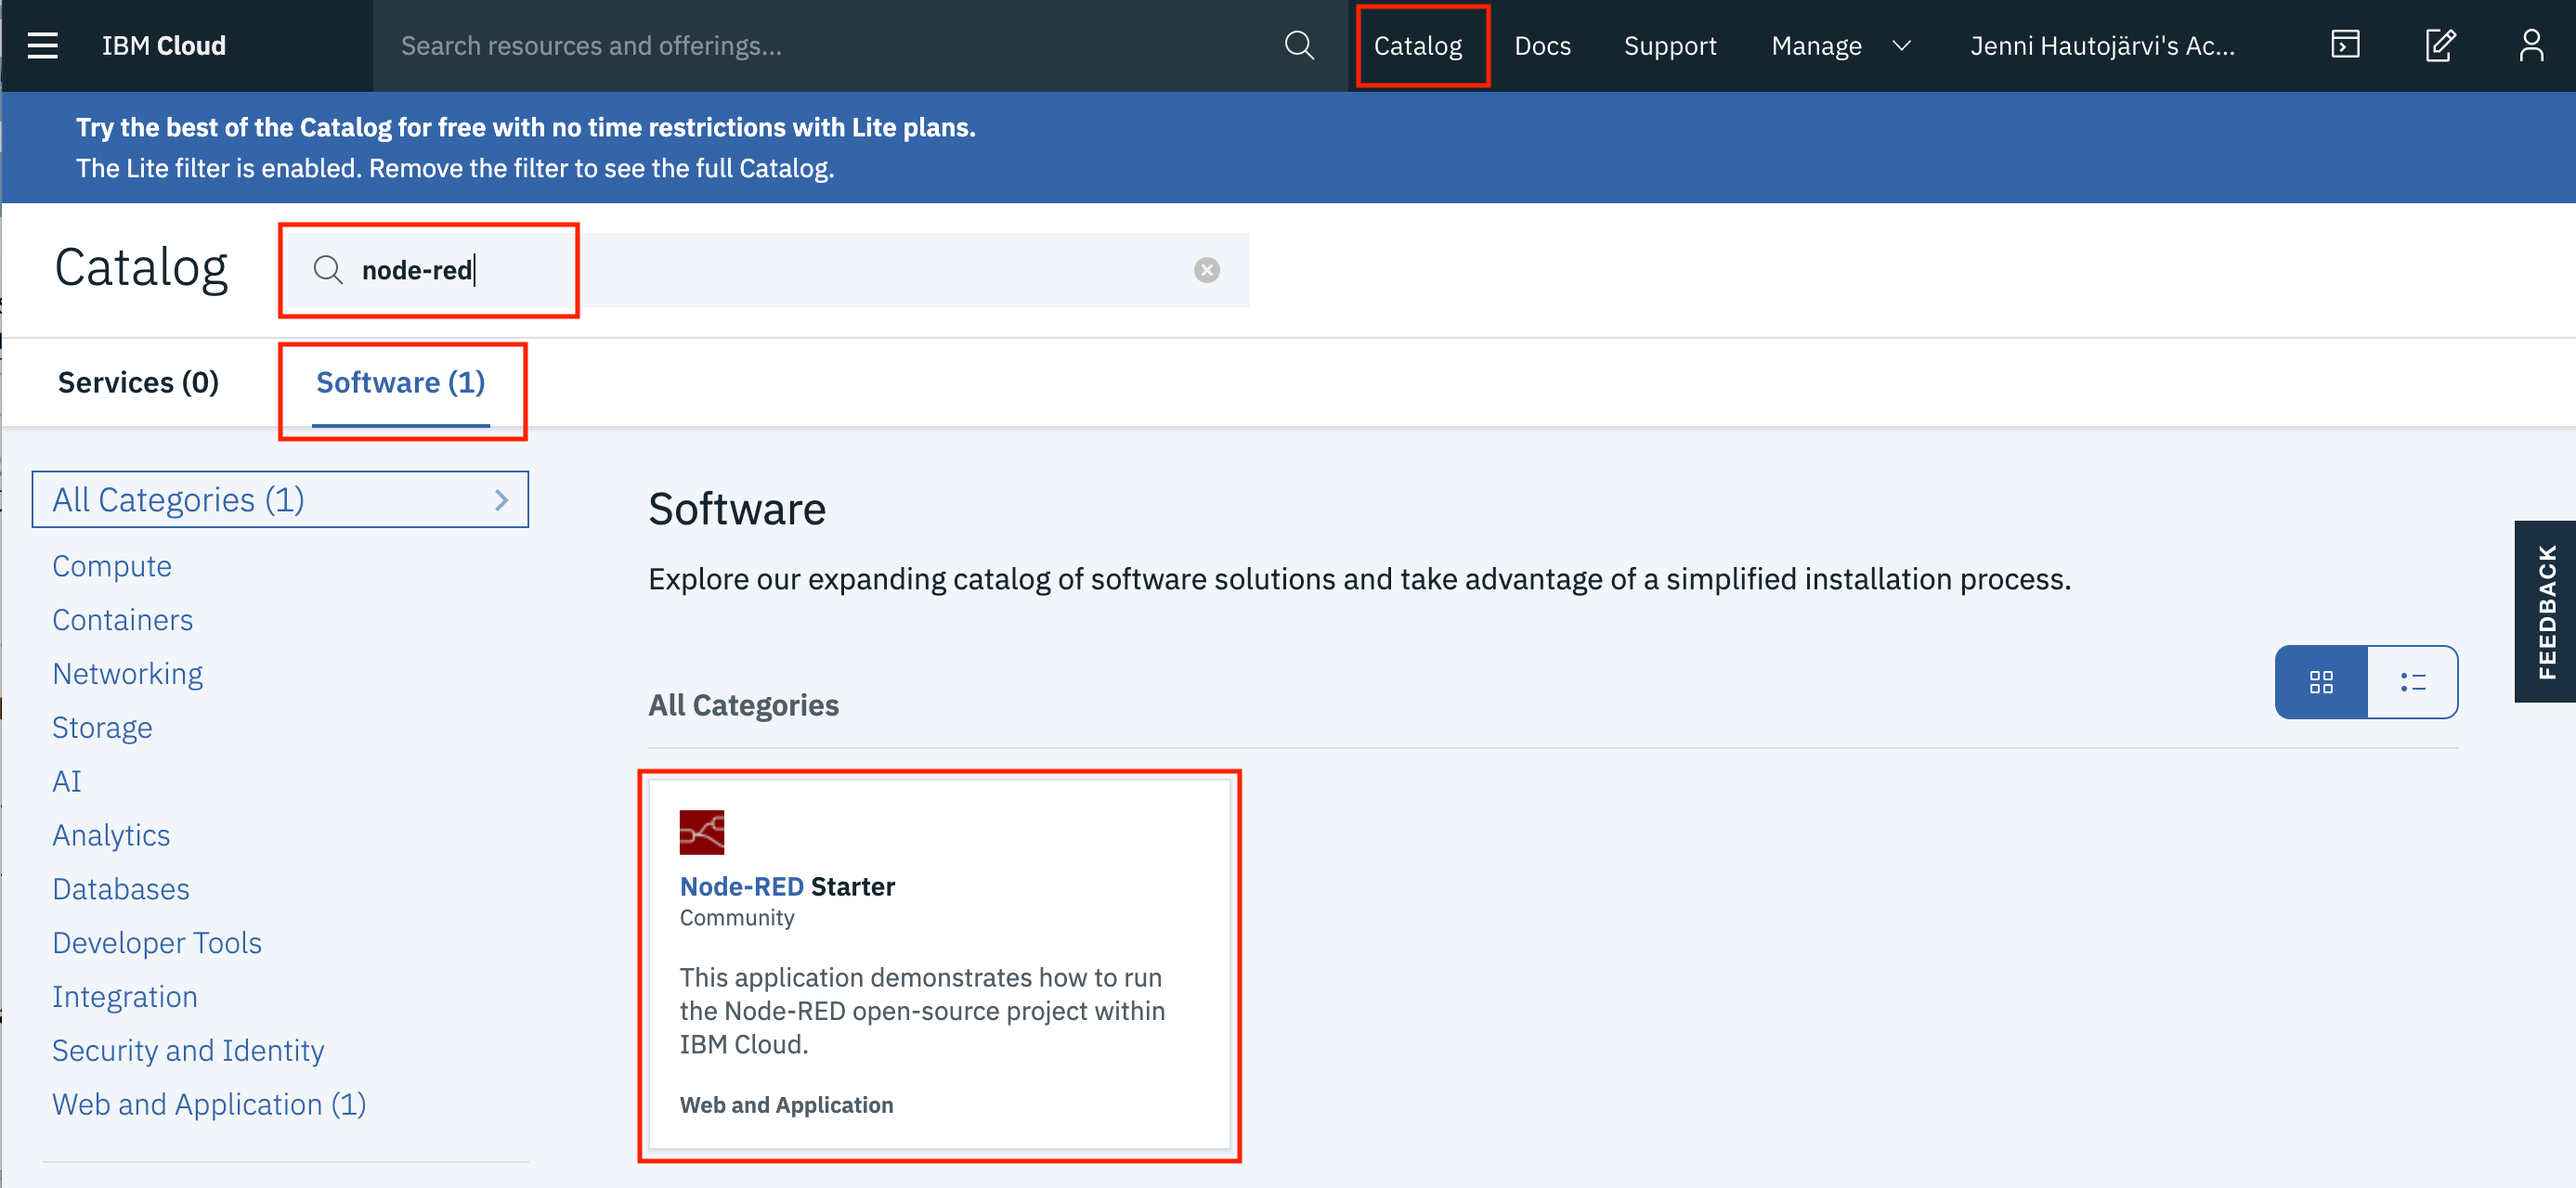
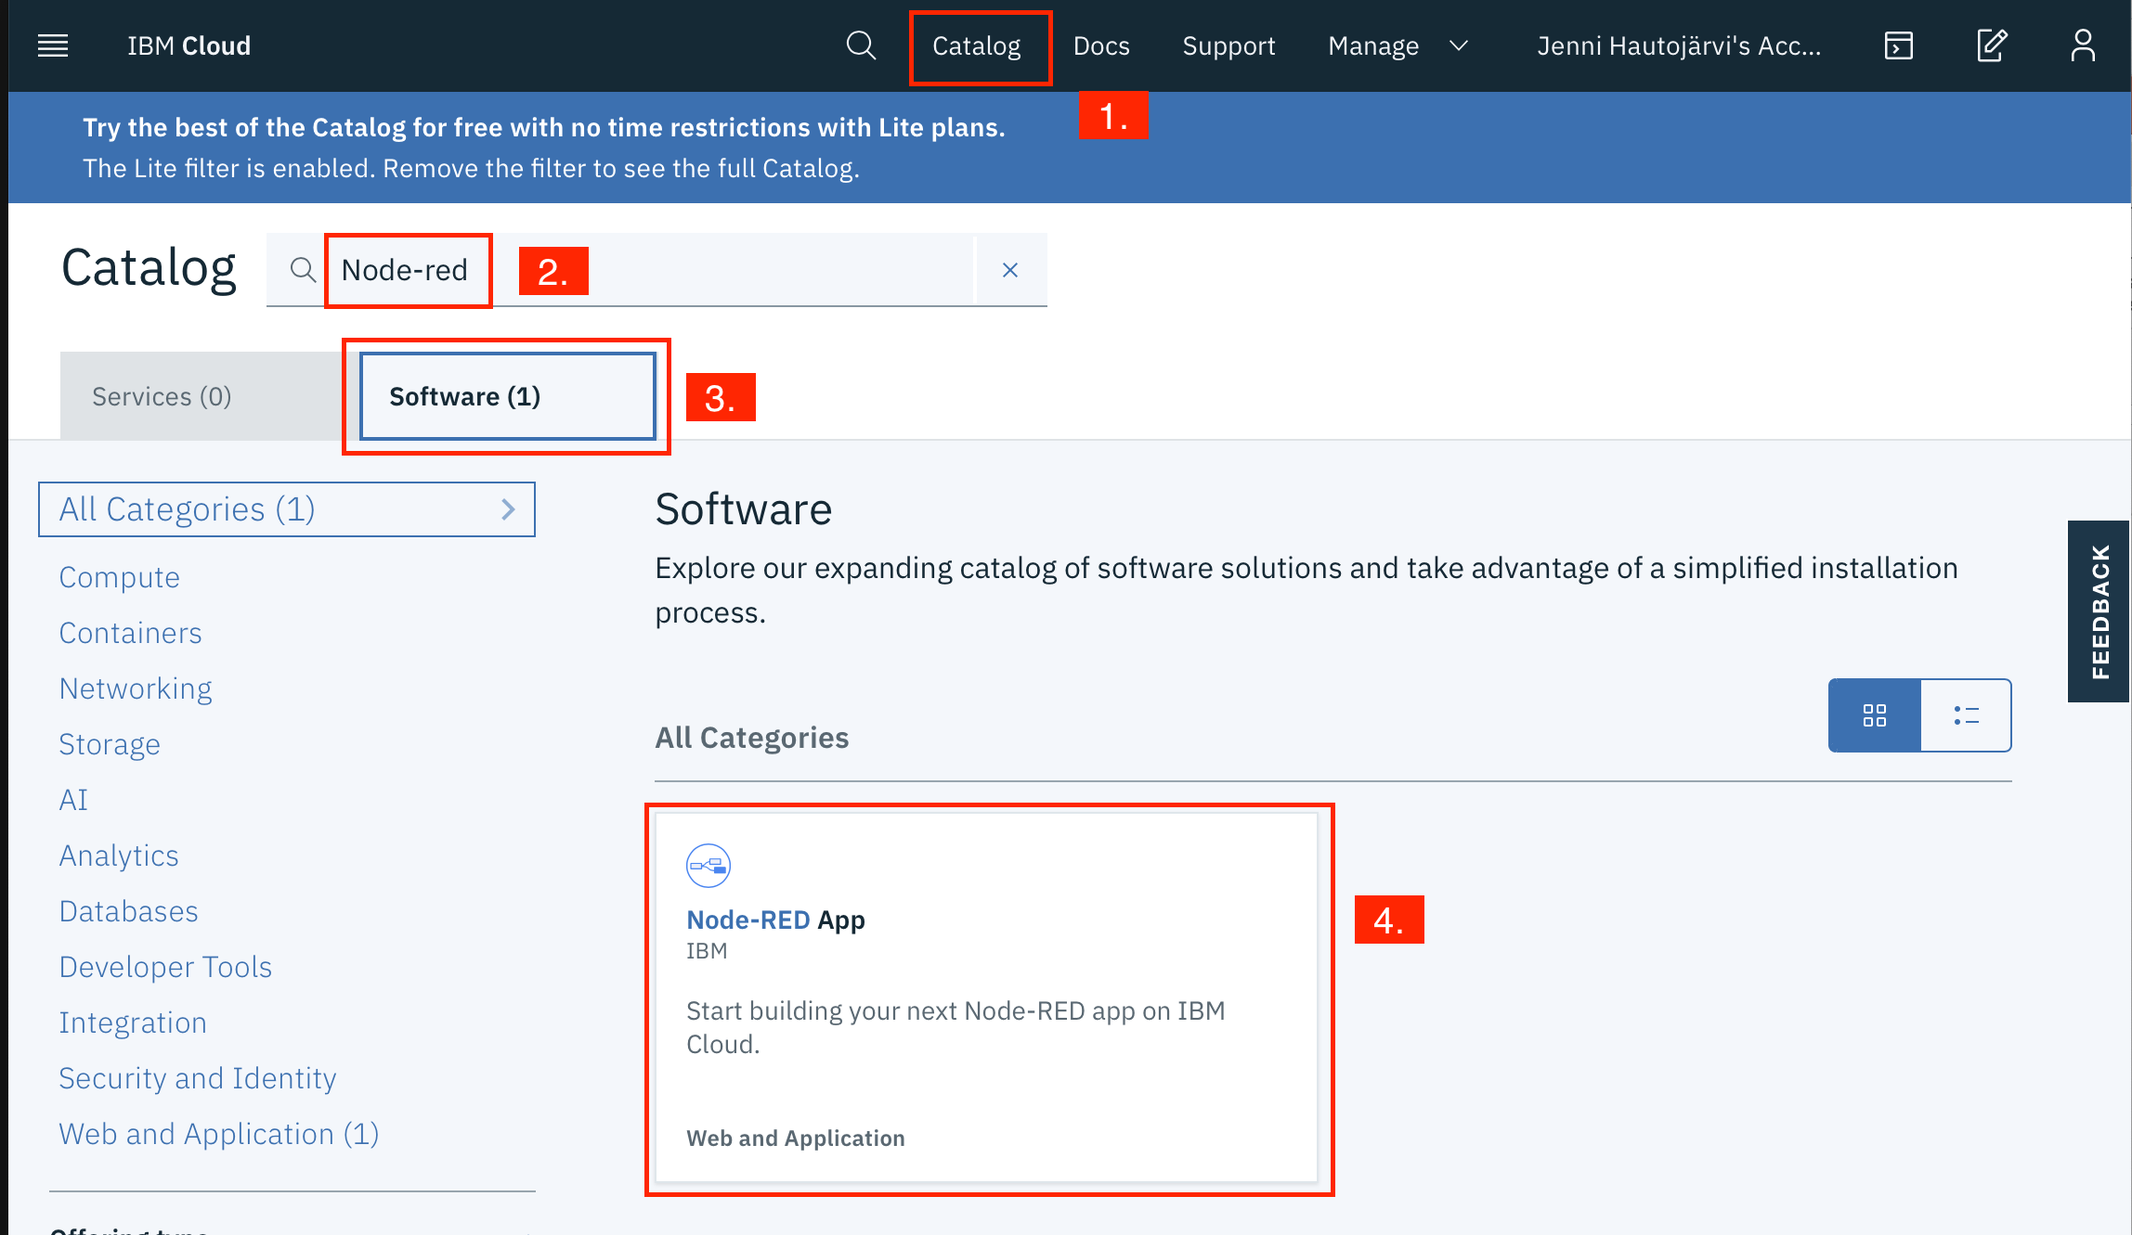
3

diff --git a/README.md b/README.md
@@ -166,19 +166,42 @@ Node-RED is a visual tool for wiring the internet of things - connecting hardwar
 
 ![](./images/IBM_catalog_node-red.png)
 
-**(2)** Create the app with a unique name.
+**(2)** Click on the Create app button (1) to continue
 
-Ensure you are using the `Lite` plan.
+![](./images/IBM_catalog_node-red-create-app.png)
 
-![](./images/IBM_node-red.png)
+**(3)** Now you need to configure the Node-RED Starter application.
 
-Scroll down and give the app name you want, then hit `Create`. This name will show in the address of our app, http://yourAppName.eu-gb.mybluemix.net/ui.
+1. On the App details page, a randomly generated name will be suggested – Node RED SSLPD in the screenshot below. Either accept that default name or provide a unique name for your application (1). This will become part of the application URL. Note: If the name is not unique, you will see an error message and you must enter a different name before you can continue.
+
+2. The Node-RED Starter application requires an instance of the Cloudant database service to store your application flow configuration. Select the region (2) the service should be created in and what pricing plan it should use. Note: You can only have one Cloudant instance using the Lite plan. If you have already got an instance, you will be able to select it from the Pricing plan select box (3). You can have more than one Node-RED Starter application using the same Cloudant service instance.
+
+3. Click the Create button (4) to continue. This will create your application, but it is not yet deployed to IBM Cloud.
 
 ![](./images/IBM_node-red_name.png)
 
-**(3)** Click on `Visit App URL`.
+**(3)** Enable the Continuous Delivery feature
 
-![](./images/IBM_node-red_launch.png)
+At this point, you have created the application and the resources it requires, but you have not deployed it anywhere to run. This step shows how to setup the Continuous Delivery feature that will deploy your application into the **Cloud Foundry** space of IBM Cloud.
+
+1. On the next screen, click the `Deploy your app` button (1) to enable the Continuous Delivery feature for your application.
+
+![](./images/Deploy_your_app.png)
+
+2. You will need to create an **IBM Cloud API** key to allow the deployment process to access your resources. Click the `New button` (1) to create the key. A message dialog will appear. Read what it says and then confirm and close the dialog.
+
+3. The Node-RED Starter kit only supports deployment to the **Cloud Foundry** space of IBM Cloud. Select the `region` (2) to **deploy your application to**. This should match the region you created your Cloudant instance in.
+
+4. Select the `region` (3) to create the **DevOps toolchain**.
+
+5. Click `Create` (4). This will take you back to the application details page.
+
+![](./images/NR-configure-pipeline.png)
+
+
+
+
+
 
 **(4)** Configure your Node-RED editor.
 
